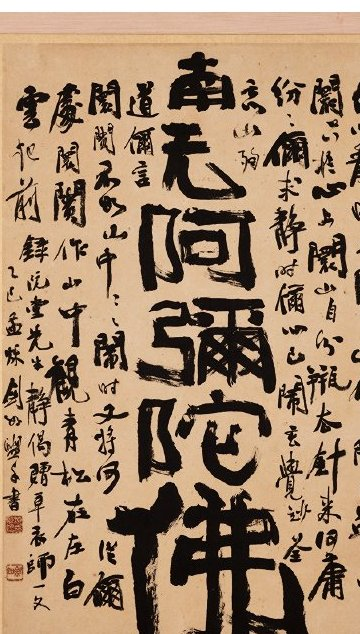
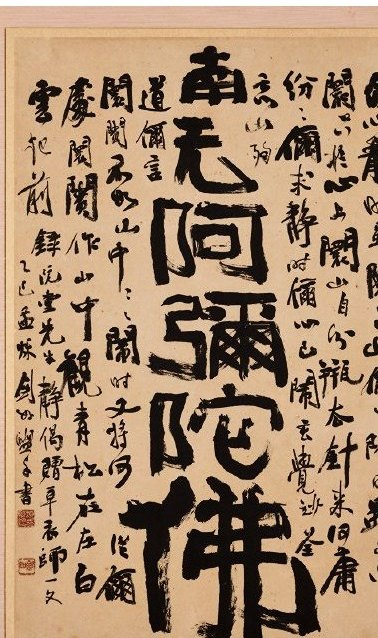
캐시 무효화(css/js 버전), 기사 작품사진 재크롭

diff --git a/index.en.html b/index.en.html
@@ -15,7 +15,7 @@
 <link rel="preconnect" href="https://fonts.gstatic.com" crossorigin>
 <link rel="stylesheet" href="https://fonts.googleapis.com/css2?family=Hahmlet:wght@300;400;500;600&family=Noto+Sans+KR:wght@400;500;600;700&family=Noto+Serif+KR:wght@400;500;700;900&display=swap">
 <link rel="stylesheet" href="https://cdn.jsdelivr.net/gh/orioncactus/pretendard@v1.3.9/dist/web/variable/pretendardvariable-dynamic-subset.min.css">
-<link rel="stylesheet" href="assets/css/archive.css">
+<link rel="stylesheet" href="assets/css/archive.css?v=20261004">
 </head>
 <body class="gy">
 <svg width="0" height="0" style="position:absolute" aria-hidden="true">
@@ -587,7 +587,7 @@
   <div class="gy-wrap">
     <div class="gy-head"><span class="gy-num">08</span><h2>Press coverage</h2><p class="gy-sub">Daily papers & online media<br>Press releases and feature coverage</p></div>
 
-    <div class="gy-article"><p class="gy-article-src">Incheon Ilbo · 6 Apr 2026 · Culture / Interview</p><h3 class="gy-article-title">“From the local to the world — expanding calligraphy into content”</h3><p class="gy-article-dek">Programs conceived on an international scale, through exhibitions and more · What sets it apart from past events: scalability and potential · CEO: “A cooperative structure that includes the family is the key”</p><figure class="gy-article-fig is-ceo"><img src="assets/img/press/art_ceo.jpg" alt="Kim Seong-ha, CEO of the Incheon Seohae-gu Culture Foundation." width="868" height="694" loading="lazy" decoding="async"><figcaption>Kim Seong-ha, CEO of the Incheon Seohae-gu Culture Foundation.</figcaption></figure><figure class="gy-article-fig is-work"><img src="assets/img/press/art_work.jpg" alt="Geomyeo Yu Hui-gang, ‘Wandang Jeongge’. Photo: Sungkyunkwan University Museum" width="360" height="634" loading="lazy" decoding="async"><figcaption>Geomyeo Yu Hui-gang, ‘Wandang Jeongge’. Photo: Sungkyunkwan University Museum</figcaption></figure><div class="gy-article-body"><p>This year, marking the 50th anniversary of the death of Geomyeo Yu Hui-gang (1911–1976), the ‘Geomyeo Yu Hui-gang K-Culture Project’ — linking a special exhibition, a calligraphy competition and an academic symposium — unfolded in Incheon last month. The differently formatted programs interlocked as a single attempt to read Geomyeo anew.</p><p>Kim Seong-ha, CEO of the Incheon Seohae-gu Culture Foundation, which led the project, described it in an interview with Incheon Ilbo on the 2nd as “a starting point for expanding regional cultural assets into content.”</p><p>Kim named ‘convergence’ as the starting point of the plan. “When Geomyeo’s life, works and artistic world operate together, they become powerful content,” he said. “I saw the potential to grow it into a cultural asset that represents not just Incheon but all of Korea.”</p><p>Geomyeo Yu Hui-gang was born in Sicheon-dong, Seokgot-myeon, Bupyeong-gun, Gyeonggi-do (today’s Sicheon-dong, Seohae-gu, Incheon) and is regarded as a master who carried on the calligraphic tradition after Chusa Kim Jeong-hui.</p><p>Even after a cerebral hemorrhage in 1968, he took up the brush with his left hand and pioneered ‘left-handed calligraphy.’</p><p>Kim also drew attention to the experimental, contemporary nature of Geomyeo’s work — a mode of expression that crosses the boundary between writing and painting and resonates with art today. “Art that breaks the mold is ultimately connected to how we see society,” he said, “and such an experience can be an occasion to expand an individual’s thinking.”</p><p>The structure of the project was designed on this understanding. The exhibition, competition and symposium were arranged not as a mere list but as a flow of ‘perception, reflection and action’: encountering the works through the exhibition, expanding interpretation through scholarly discussion, and taking part directly through the competition. “Art,” Kim explained, “is ultimately completed through the process of perceiving, thinking and acting.”</p><p>What sets this apart from past commemorations lies in its ‘scalability and potential.’</p><p>“Calligraphy can be turned not into a mere traditional art but into contemporary content,” he stressed, “a resource that can expand into new culture by combining with diverse genres such as webtoons, film, performance and public design.”</p><p>He also noted that, in the digital age, the very act of writing by hand can be an experience that restores human thought and sensibility.</p><p>Its meaning as a regional cultural asset is clear as well. “This is a process of repositioning Geomyeo not as a figure in memory but as a cultural asset of the city,” Kim said, “and content that begins in a region can become a ‘glocal’ model that expands to the world.”</p><p>His plans ahead are bigger still. He envisions expanding the exhibition, the academic conference and the competition to an international scale, and creating a ‘Month of Geomyeo’ in which programs run simultaneously in cities around the world. “This is not something the Seohae-gu Culture Foundation can do alone,” Kim said. “A cooperative structure in which the bereaved family, the art world and many institutions take part together is the key.”</p><p>Finally, he emphasized: “This commemorative project is not an end but a beginning. If we accumulate it over time, Geomyeo will become a cultural brand that expands beyond the region to the world.”</p></div><p class="gy-article-by">By Jeong Hoe-jin, Incheon Ilbo · hijung@incheonilbo.com</p></div>
+    <div class="gy-article"><p class="gy-article-src">Incheon Ilbo · 6 Apr 2026 · Culture / Interview</p><h3 class="gy-article-title">“From the local to the world — expanding calligraphy into content”</h3><p class="gy-article-dek">Programs conceived on an international scale, through exhibitions and more · What sets it apart from past events: scalability and potential · CEO: “A cooperative structure that includes the family is the key”</p><figure class="gy-article-fig is-ceo"><img src="assets/img/press/art_ceo.jpg" alt="Kim Seong-ha, CEO of the Incheon Seohae-gu Culture Foundation." width="868" height="694" loading="lazy" decoding="async"><figcaption>Kim Seong-ha, CEO of the Incheon Seohae-gu Culture Foundation.</figcaption></figure><figure class="gy-article-fig is-work"><img src="assets/img/press/art_work.jpg" alt="Geomyeo Yu Hui-gang, ‘Wandang Jeongge’. Photo: Sungkyunkwan University Museum" width="378" height="638" loading="lazy" decoding="async"><figcaption>Geomyeo Yu Hui-gang, ‘Wandang Jeongge’. Photo: Sungkyunkwan University Museum</figcaption></figure><div class="gy-article-body"><p>This year, marking the 50th anniversary of the death of Geomyeo Yu Hui-gang (1911–1976), the ‘Geomyeo Yu Hui-gang K-Culture Project’ — linking a special exhibition, a calligraphy competition and an academic symposium — unfolded in Incheon last month. The differently formatted programs interlocked as a single attempt to read Geomyeo anew.</p><p>Kim Seong-ha, CEO of the Incheon Seohae-gu Culture Foundation, which led the project, described it in an interview with Incheon Ilbo on the 2nd as “a starting point for expanding regional cultural assets into content.”</p><p>Kim named ‘convergence’ as the starting point of the plan. “When Geomyeo’s life, works and artistic world operate together, they become powerful content,” he said. “I saw the potential to grow it into a cultural asset that represents not just Incheon but all of Korea.”</p><p>Geomyeo Yu Hui-gang was born in Sicheon-dong, Seokgot-myeon, Bupyeong-gun, Gyeonggi-do (today’s Sicheon-dong, Seohae-gu, Incheon) and is regarded as a master who carried on the calligraphic tradition after Chusa Kim Jeong-hui.</p><p>Even after a cerebral hemorrhage in 1968, he took up the brush with his left hand and pioneered ‘left-handed calligraphy.’</p><p>Kim also drew attention to the experimental, contemporary nature of Geomyeo’s work — a mode of expression that crosses the boundary between writing and painting and resonates with art today. “Art that breaks the mold is ultimately connected to how we see society,” he said, “and such an experience can be an occasion to expand an individual’s thinking.”</p><p>The structure of the project was designed on this understanding. The exhibition, competition and symposium were arranged not as a mere list but as a flow of ‘perception, reflection and action’: encountering the works through the exhibition, expanding interpretation through scholarly discussion, and taking part directly through the competition. “Art,” Kim explained, “is ultimately completed through the process of perceiving, thinking and acting.”</p><p>What sets this apart from past commemorations lies in its ‘scalability and potential.’</p><p>“Calligraphy can be turned not into a mere traditional art but into contemporary content,” he stressed, “a resource that can expand into new culture by combining with diverse genres such as webtoons, film, performance and public design.”</p><p>He also noted that, in the digital age, the very act of writing by hand can be an experience that restores human thought and sensibility.</p><p>Its meaning as a regional cultural asset is clear as well. “This is a process of repositioning Geomyeo not as a figure in memory but as a cultural asset of the city,” Kim said, “and content that begins in a region can become a ‘glocal’ model that expands to the world.”</p><p>His plans ahead are bigger still. He envisions expanding the exhibition, the academic conference and the competition to an international scale, and creating a ‘Month of Geomyeo’ in which programs run simultaneously in cities around the world. “This is not something the Seohae-gu Culture Foundation can do alone,” Kim said. “A cooperative structure in which the bereaved family, the art world and many institutions take part together is the key.”</p><p>Finally, he emphasized: “This commemorative project is not an end but a beginning. If we accumulate it over time, Geomyeo will become a cultural brand that expands beyond the region to the world.”</p></div><p class="gy-article-by">By Jeong Hoe-jin, Incheon Ilbo · hijung@incheonilbo.com</p></div>
 
     <div class="gy-tabs" data-filter-group="press" role="group" aria-label="By month">
       <button type="button" data-key="all" aria-pressed="true">All</button>
@@ -746,6 +746,6 @@
   <button type="button" class="gy-lb-next" aria-label="Next">›</button>
 </div>
 
-<script src="assets/js/archive.js"></script>
+<script src="assets/js/archive.js?v=20261004"></script>
 </body>
 </html>

diff --git a/index.ja.html b/index.ja.html
@@ -15,7 +15,7 @@
 <link rel="preconnect" href="https://fonts.gstatic.com" crossorigin>
 <link rel="stylesheet" href="https://fonts.googleapis.com/css2?family=Hahmlet:wght@300;400;500;600&family=Noto+Sans+JP:wght@400;500;600;700&family=Noto+Serif+JP:wght@400;500;700;900&display=swap">
 <link rel="stylesheet" href="https://cdn.jsdelivr.net/gh/orioncactus/pretendard@v1.3.9/dist/web/variable/pretendardvariable-dynamic-subset.min.css">
-<link rel="stylesheet" href="assets/css/archive.css">
+<link rel="stylesheet" href="assets/css/archive.css?v=20261004">
 </head>
 <body class="gy">
 <svg width="0" height="0" style="position:absolute" aria-hidden="true">
@@ -587,7 +587,7 @@
   <div class="gy-wrap">
     <div class="gy-head"><span class="gy-num">08</span><h2>報道</h2><p class="gy-sub">日刊紙・ネット媒体<br>プレスリリース配布と企画報道</p></div>
 
-    <div class="gy-article"><p class="gy-article-src">仁川日報 · 2026. 4. 6. · 文化 / インタビュー</p><h3 class="gy-article-title">「地域から世界へ…書芸をコンテンツへ拡張する」</h3><p class="gy-article-dek">展示などを国際規模に広げてプログラムを構想 · 既存の行事との違いは拡張性と可能性 · 代表「ご遺族などが参加する協力構造が核心」</p><figure class="gy-article-fig is-ceo"><img src="assets/img/press/art_ceo.jpg" alt="金成河 仁川西海区文化財団代表理事。" width="868" height="694" loading="lazy" decoding="async"><figcaption>金成河 仁川西海区文化財団代表理事。</figcaption></figure><figure class="gy-article-fig is-work"><img src="assets/img/press/art_work.jpg" alt="剣如 柳熙綱 作「阮堂静偈」。写真提供：成均館大学校博物館" width="360" height="634" loading="lazy" decoding="async"><figcaption>剣如 柳熙綱 作「阮堂静偈」。写真提供：成均館大学校博物館</figcaption></figure><div class="gy-article-body"><p>今年、剣如 柳熙綱（1911–1976）の没後50周年を迎え、先月仁川では特別展と揮毫大会、学術シンポジウムを連携させた「剣如 柳熙綱 K-Culture プロジェクト」が展開された。形式の異なるプログラムが一つの流れの中でかみ合い、剣如を改めて読み解く試みとなった。</p><p>このプロジェクトを推進した仁川西海区文化財団の金成河代表理事は、2日の仁川日報のインタビューで、今回の事業を「地域の文化資産をコンテンツへ拡張するための出発点」と説明した。</p><p>金代表は今回の企画の出発点として「結合」を挙げた。「剣如先生の生涯と作品、芸術世界がともに働くとき、強力なコンテンツになる」と述べ、「仁川を超えて韓国を代表する文化資産へ成長する可能性を見た」と語った。</p><p>剣如 柳熙綱は京畿道富平郡石串面（現・仁川西海区矢川洞）に生まれ、秋史・金正喜以降の書芸史を継ぐ巨匠として評価されている。</p><p>1968年の脳出血の後も左手で筆を執り、「左手書」を切り開いた。</p><p>金代表は剣如の作品の実験性と同時代性にも注目した。書と絵の境を行き来する表現が、今日の芸術とも通じているという。「型を破る芸術は結局、社会を見る方法とつながる」と述べ、「こうした経験が個人の思考を広げるきっかけになり得る」と語った。</p><p>事業の構成もこの認識の上に設計された。特別展・揮毫大会・学術シンポジウムは単なる羅列ではなく、「認知・思惟・行為」の流れとして設計された。展示で作品に向き合い、学術的議論で解釈を広げ、揮毫大会で直接参加する構造だ。金代表は「芸術は結局、認知し、考え、行動する過程を通じて完成する」と説明した。</p><p>今回の事業が既存の記念行事と異なる点は「拡張性と可能性」にある。</p><p>彼は「書芸を単なる伝統芸術ではなく、現代的なコンテンツへ転換できる」と強調し、「ウェブトゥーン、映画、公演、公共デザインなど多様なジャンルと結びついて新たな文化へ拡張できる資源」だと述べた。</p><p>特にデジタル時代に、手で書く行為そのものが、人間の思考と感覚を回復する経験になり得る点も指摘した。</p><p>地域の文化資産としての意義も明確だ。金代表は「剣如を記憶の中の人物ではなく、都市の文化資産として再配置する過程」だとし、「地域から出発したコンテンツが世界へ拡張する『グローカル』モデルになり得る」と語った。</p><p>今後の計画はさらに大きい。展示と学術大会、揮毫大会を国際規模に拡張し、「剣如の月」を設けて世界中の都市で同時にプログラムが進む構造を構想している。金代表は「この事業は西海区文化財団単独でできることではない」とし、「ご遺族や芸術界、多くの機関がともに参加する協力構造が核心」だと語った。</p><p>最後に彼は「今回の記念事業は終わりではなく始まりだ」とし、「時間をかけて積み重ねていけば、剣如は地域を超えて世界へ拡張する文化ブランドになる」と強調した。</p></div><p class="gy-article-by">文・写真 / 정회진 記者 · hijung@incheonilbo.com</p></div>
+    <div class="gy-article"><p class="gy-article-src">仁川日報 · 2026. 4. 6. · 文化 / インタビュー</p><h3 class="gy-article-title">「地域から世界へ…書芸をコンテンツへ拡張する」</h3><p class="gy-article-dek">展示などを国際規模に広げてプログラムを構想 · 既存の行事との違いは拡張性と可能性 · 代表「ご遺族などが参加する協力構造が核心」</p><figure class="gy-article-fig is-ceo"><img src="assets/img/press/art_ceo.jpg" alt="金成河 仁川西海区文化財団代表理事。" width="868" height="694" loading="lazy" decoding="async"><figcaption>金成河 仁川西海区文化財団代表理事。</figcaption></figure><figure class="gy-article-fig is-work"><img src="assets/img/press/art_work.jpg" alt="剣如 柳熙綱 作「阮堂静偈」。写真提供：成均館大学校博物館" width="378" height="638" loading="lazy" decoding="async"><figcaption>剣如 柳熙綱 作「阮堂静偈」。写真提供：成均館大学校博物館</figcaption></figure><div class="gy-article-body"><p>今年、剣如 柳熙綱（1911–1976）の没後50周年を迎え、先月仁川では特別展と揮毫大会、学術シンポジウムを連携させた「剣如 柳熙綱 K-Culture プロジェクト」が展開された。形式の異なるプログラムが一つの流れの中でかみ合い、剣如を改めて読み解く試みとなった。</p><p>このプロジェクトを推進した仁川西海区文化財団の金成河代表理事は、2日の仁川日報のインタビューで、今回の事業を「地域の文化資産をコンテンツへ拡張するための出発点」と説明した。</p><p>金代表は今回の企画の出発点として「結合」を挙げた。「剣如先生の生涯と作品、芸術世界がともに働くとき、強力なコンテンツになる」と述べ、「仁川を超えて韓国を代表する文化資産へ成長する可能性を見た」と語った。</p><p>剣如 柳熙綱は京畿道富平郡石串面（現・仁川西海区矢川洞）に生まれ、秋史・金正喜以降の書芸史を継ぐ巨匠として評価されている。</p><p>1968年の脳出血の後も左手で筆を執り、「左手書」を切り開いた。</p><p>金代表は剣如の作品の実験性と同時代性にも注目した。書と絵の境を行き来する表現が、今日の芸術とも通じているという。「型を破る芸術は結局、社会を見る方法とつながる」と述べ、「こうした経験が個人の思考を広げるきっかけになり得る」と語った。</p><p>事業の構成もこの認識の上に設計された。特別展・揮毫大会・学術シンポジウムは単なる羅列ではなく、「認知・思惟・行為」の流れとして設計された。展示で作品に向き合い、学術的議論で解釈を広げ、揮毫大会で直接参加する構造だ。金代表は「芸術は結局、認知し、考え、行動する過程を通じて完成する」と説明した。</p><p>今回の事業が既存の記念行事と異なる点は「拡張性と可能性」にある。</p><p>彼は「書芸を単なる伝統芸術ではなく、現代的なコンテンツへ転換できる」と強調し、「ウェブトゥーン、映画、公演、公共デザインなど多様なジャンルと結びついて新たな文化へ拡張できる資源」だと述べた。</p><p>特にデジタル時代に、手で書く行為そのものが、人間の思考と感覚を回復する経験になり得る点も指摘した。</p><p>地域の文化資産としての意義も明確だ。金代表は「剣如を記憶の中の人物ではなく、都市の文化資産として再配置する過程」だとし、「地域から出発したコンテンツが世界へ拡張する『グローカル』モデルになり得る」と語った。</p><p>今後の計画はさらに大きい。展示と学術大会、揮毫大会を国際規模に拡張し、「剣如の月」を設けて世界中の都市で同時にプログラムが進む構造を構想している。金代表は「この事業は西海区文化財団単独でできることではない」とし、「ご遺族や芸術界、多くの機関がともに参加する協力構造が核心」だと語った。</p><p>最後に彼は「今回の記念事業は終わりではなく始まりだ」とし、「時間をかけて積み重ねていけば、剣如は地域を超えて世界へ拡張する文化ブランドになる」と強調した。</p></div><p class="gy-article-by">文・写真 / 정회진 記者 · hijung@incheonilbo.com</p></div>
 
     <div class="gy-tabs" data-filter-group="press" role="group" aria-label="月別に表示">
       <button type="button" data-key="all" aria-pressed="true">すべて</button>
@@ -746,6 +746,6 @@
   <button type="button" class="gy-lb-next" aria-label="次へ">›</button>
 </div>
 
-<script src="assets/js/archive.js"></script>
+<script src="assets/js/archive.js?v=20261004"></script>
 </body>
 </html>

diff --git a/index.zh.html b/index.zh.html
@@ -15,7 +15,7 @@
 <link rel="preconnect" href="https://fonts.gstatic.com" crossorigin>
 <link rel="stylesheet" href="https://fonts.googleapis.com/css2?family=Hahmlet:wght@300;400;500;600&family=Noto+Sans+SC:wght@400;500;600;700&family=Noto+Serif+SC:wght@400;500;700;900&display=swap">
 <link rel="stylesheet" href="https://cdn.jsdelivr.net/gh/orioncactus/pretendard@v1.3.9/dist/web/variable/pretendardvariable-dynamic-subset.min.css">
-<link rel="stylesheet" href="assets/css/archive.css">
+<link rel="stylesheet" href="assets/css/archive.css?v=20261004">
 </head>
 <body class="gy">
 <svg width="0" height="0" style="position:absolute" aria-hidden="true">
@@ -587,7 +587,7 @@
   <div class="gy-wrap">
     <div class="gy-head"><span class="gy-num">08</span><h2>媒体报道</h2><p class="gy-sub">日报·网络媒体<br>新闻稿发布与策划报道</p></div>
 
-    <div class="gy-article"><p class="gy-article-src">仁川日报 · 2026. 4. 6. · 文化 / 专访</p><h3 class="gy-article-title">“从地方走向世界……将书法拓展为内容”</h3><p class="gy-article-dek">以展览等形式扩展至国际规模来构思项目 · 与以往活动的不同之处在于扩展性与可能性 · 代表“包括遗属在内的协作结构是关键”</p><figure class="gy-article-fig is-ceo"><img src="assets/img/press/art_ceo.jpg" alt="金成河 仁川西海区文化财团代表理事。" width="868" height="694" loading="lazy" decoding="async"><figcaption>金成河 仁川西海区文化财团代表理事。</figcaption></figure><figure class="gy-article-fig is-work"><img src="assets/img/press/art_work.jpg" alt="剑如柳熙纲 作《阮堂静偈》。图片提供：成均馆大学校博物馆" width="360" height="634" loading="lazy" decoding="async"><figcaption>剑如柳熙纲 作《阮堂静偈》。图片提供：成均馆大学校博物馆</figcaption></figure><div class="gy-article-body"><p>今年适逢剑如柳熙纲（1911–1976）逝世50周年，上个月仁川举行了联动特别展、挥毫大赛与学术研讨会的“剑如柳熙纲 K-Culture 项目”。形式各异的项目在同一脉络中相互呼应，成为重新解读剑如的尝试。</p><p>推动该项目的仁川西海区文化财团代表理事金成河，在本月2日接受仁川日报专访时，将本次事业说明为“将地区文化资产拓展为内容的起点”。</p><p>金代表将本次策划的起点归为“结合”。他表示：“当剑如先生的生平、作品与艺术世界共同运作时，便成为强有力的内容”，“我看到了其成长为超越仁川、代表韩国的文化资产的可能性”。</p><p>剑如柳熙纲生于京畿道富平郡石串面（今仁川西海区矢川洞），被评价为继秋史金正喜之后承续书法史的巨匠。</p><p>1968年脑溢血之后，他仍以左手执笔，开辟了“左手书”。</p><p>金代表还关注剑如创作的实验性与同时代性。他认为，跨越书与画之界的表现方式，与当今的艺术也相通。他说：“打破框架的艺术，最终与看待社会的方式相连”，“这样的经验可成为扩展个人思考的契机”。</p><p>事业的构成也建立在这一认识之上。特别展、挥毫大赛与学术研讨会并非简单罗列，而是按“认知·思惟·行为”的脉络设计：通过展览面对作品，通过学术讨论扩展解读，通过挥毫大赛亲身参与。金代表说明：“艺术最终是通过认知、思考与行动的过程而完成的”。</p><p>本次事业与以往纪念活动的不同之处，在于“扩展性与可能性”。</p><p>他强调：“书法不仅是单纯的传统艺术，还可转化为现代内容”，“它是可与网漫、电影、演出、公共设计等多样体裁结合，拓展为新文化的资源”。</p><p>他还指出，在数字时代，亲手书写这一行为本身，可成为恢复人类思维与感知的经验。</p><p>其作为地区文化资产的意义也十分明确。金代表说：“这是将剑如从记忆中的人物重新定位为城市文化资产的过程”，“从地区出发的内容，可成为走向世界的‘全球在地化（glocal）’模型”。</p><p>今后的计划更大。他正构思将展览、学术大会与挥毫大赛拓展至国际规模，并设立“剑如之月”，让全球城市同时举办相关项目。金代表说：“这项事业并非西海区文化财团单独能完成”，“遗属、艺术界与多家机构共同参与的协作结构才是关键”。</p><p>最后他强调：“这次纪念事业不是结束，而是开始”，“若能随时间不断积累，剑如将成为超越地区、走向世界的文化品牌”。</p></div><p class="gy-article-by">文·图 / 郑会珍 记者 · hijung@incheonilbo.com</p></div>
+    <div class="gy-article"><p class="gy-article-src">仁川日报 · 2026. 4. 6. · 文化 / 专访</p><h3 class="gy-article-title">“从地方走向世界……将书法拓展为内容”</h3><p class="gy-article-dek">以展览等形式扩展至国际规模来构思项目 · 与以往活动的不同之处在于扩展性与可能性 · 代表“包括遗属在内的协作结构是关键”</p><figure class="gy-article-fig is-ceo"><img src="assets/img/press/art_ceo.jpg" alt="金成河 仁川西海区文化财团代表理事。" width="868" height="694" loading="lazy" decoding="async"><figcaption>金成河 仁川西海区文化财团代表理事。</figcaption></figure><figure class="gy-article-fig is-work"><img src="assets/img/press/art_work.jpg" alt="剑如柳熙纲 作《阮堂静偈》。图片提供：成均馆大学校博物馆" width="378" height="638" loading="lazy" decoding="async"><figcaption>剑如柳熙纲 作《阮堂静偈》。图片提供：成均馆大学校博物馆</figcaption></figure><div class="gy-article-body"><p>今年适逢剑如柳熙纲（1911–1976）逝世50周年，上个月仁川举行了联动特别展、挥毫大赛与学术研讨会的“剑如柳熙纲 K-Culture 项目”。形式各异的项目在同一脉络中相互呼应，成为重新解读剑如的尝试。</p><p>推动该项目的仁川西海区文化财团代表理事金成河，在本月2日接受仁川日报专访时，将本次事业说明为“将地区文化资产拓展为内容的起点”。</p><p>金代表将本次策划的起点归为“结合”。他表示：“当剑如先生的生平、作品与艺术世界共同运作时，便成为强有力的内容”，“我看到了其成长为超越仁川、代表韩国的文化资产的可能性”。</p><p>剑如柳熙纲生于京畿道富平郡石串面（今仁川西海区矢川洞），被评价为继秋史金正喜之后承续书法史的巨匠。</p><p>1968年脑溢血之后，他仍以左手执笔，开辟了“左手书”。</p><p>金代表还关注剑如创作的实验性与同时代性。他认为，跨越书与画之界的表现方式，与当今的艺术也相通。他说：“打破框架的艺术，最终与看待社会的方式相连”，“这样的经验可成为扩展个人思考的契机”。</p><p>事业的构成也建立在这一认识之上。特别展、挥毫大赛与学术研讨会并非简单罗列，而是按“认知·思惟·行为”的脉络设计：通过展览面对作品，通过学术讨论扩展解读，通过挥毫大赛亲身参与。金代表说明：“艺术最终是通过认知、思考与行动的过程而完成的”。</p><p>本次事业与以往纪念活动的不同之处，在于“扩展性与可能性”。</p><p>他强调：“书法不仅是单纯的传统艺术，还可转化为现代内容”，“它是可与网漫、电影、演出、公共设计等多样体裁结合，拓展为新文化的资源”。</p><p>他还指出，在数字时代，亲手书写这一行为本身，可成为恢复人类思维与感知的经验。</p><p>其作为地区文化资产的意义也十分明确。金代表说：“这是将剑如从记忆中的人物重新定位为城市文化资产的过程”，“从地区出发的内容，可成为走向世界的‘全球在地化（glocal）’模型”。</p><p>今后的计划更大。他正构思将展览、学术大会与挥毫大赛拓展至国际规模，并设立“剑如之月”，让全球城市同时举办相关项目。金代表说：“这项事业并非西海区文化财团单独能完成”，“遗属、艺术界与多家机构共同参与的协作结构才是关键”。</p><p>最后他强调：“这次纪念事业不是结束，而是开始”，“若能随时间不断积累，剑如将成为超越地区、走向世界的文化品牌”。</p></div><p class="gy-article-by">文·图 / 郑会珍 记者 · hijung@incheonilbo.com</p></div>
 
     <div class="gy-tabs" data-filter-group="press" role="group" aria-label="按月份查看">
       <button type="button" data-key="all" aria-pressed="true">全部</button>
@@ -746,6 +746,6 @@
   <button type="button" class="gy-lb-next" aria-label="下一张">›</button>
 </div>
 
-<script src="assets/js/archive.js"></script>
+<script src="assets/js/archive.js?v=20261004"></script>
 </body>
 </html>

diff --git a/index.html b/index.html
@@ -15,7 +15,7 @@
 <link rel="preconnect" href="https://fonts.gstatic.com" crossorigin>
 <link rel="stylesheet" href="https://fonts.googleapis.com/css2?family=Hahmlet:wght@300;400;500;600&family=Noto+Sans+KR:wght@400;500;600;700&family=Noto+Serif+KR:wght@400;500;700;900&display=swap">
 <link rel="stylesheet" href="https://cdn.jsdelivr.net/gh/orioncactus/pretendard@v1.3.9/dist/web/variable/pretendardvariable-dynamic-subset.min.css">
-<link rel="stylesheet" href="assets/css/archive.css">
+<link rel="stylesheet" href="assets/css/archive.css?v=20261004">
 </head>
 <body class="gy">
 <svg width="0" height="0" style="position:absolute" aria-hidden="true">
@@ -746,6 +746,6 @@
   <button type="button" class="gy-lb-next" aria-label="다음">›</button>
 </div>
 
-<script src="assets/js/archive.js"></script>
+<script src="assets/js/archive.js?v=20261004"></script>
 </body>
 </html>
